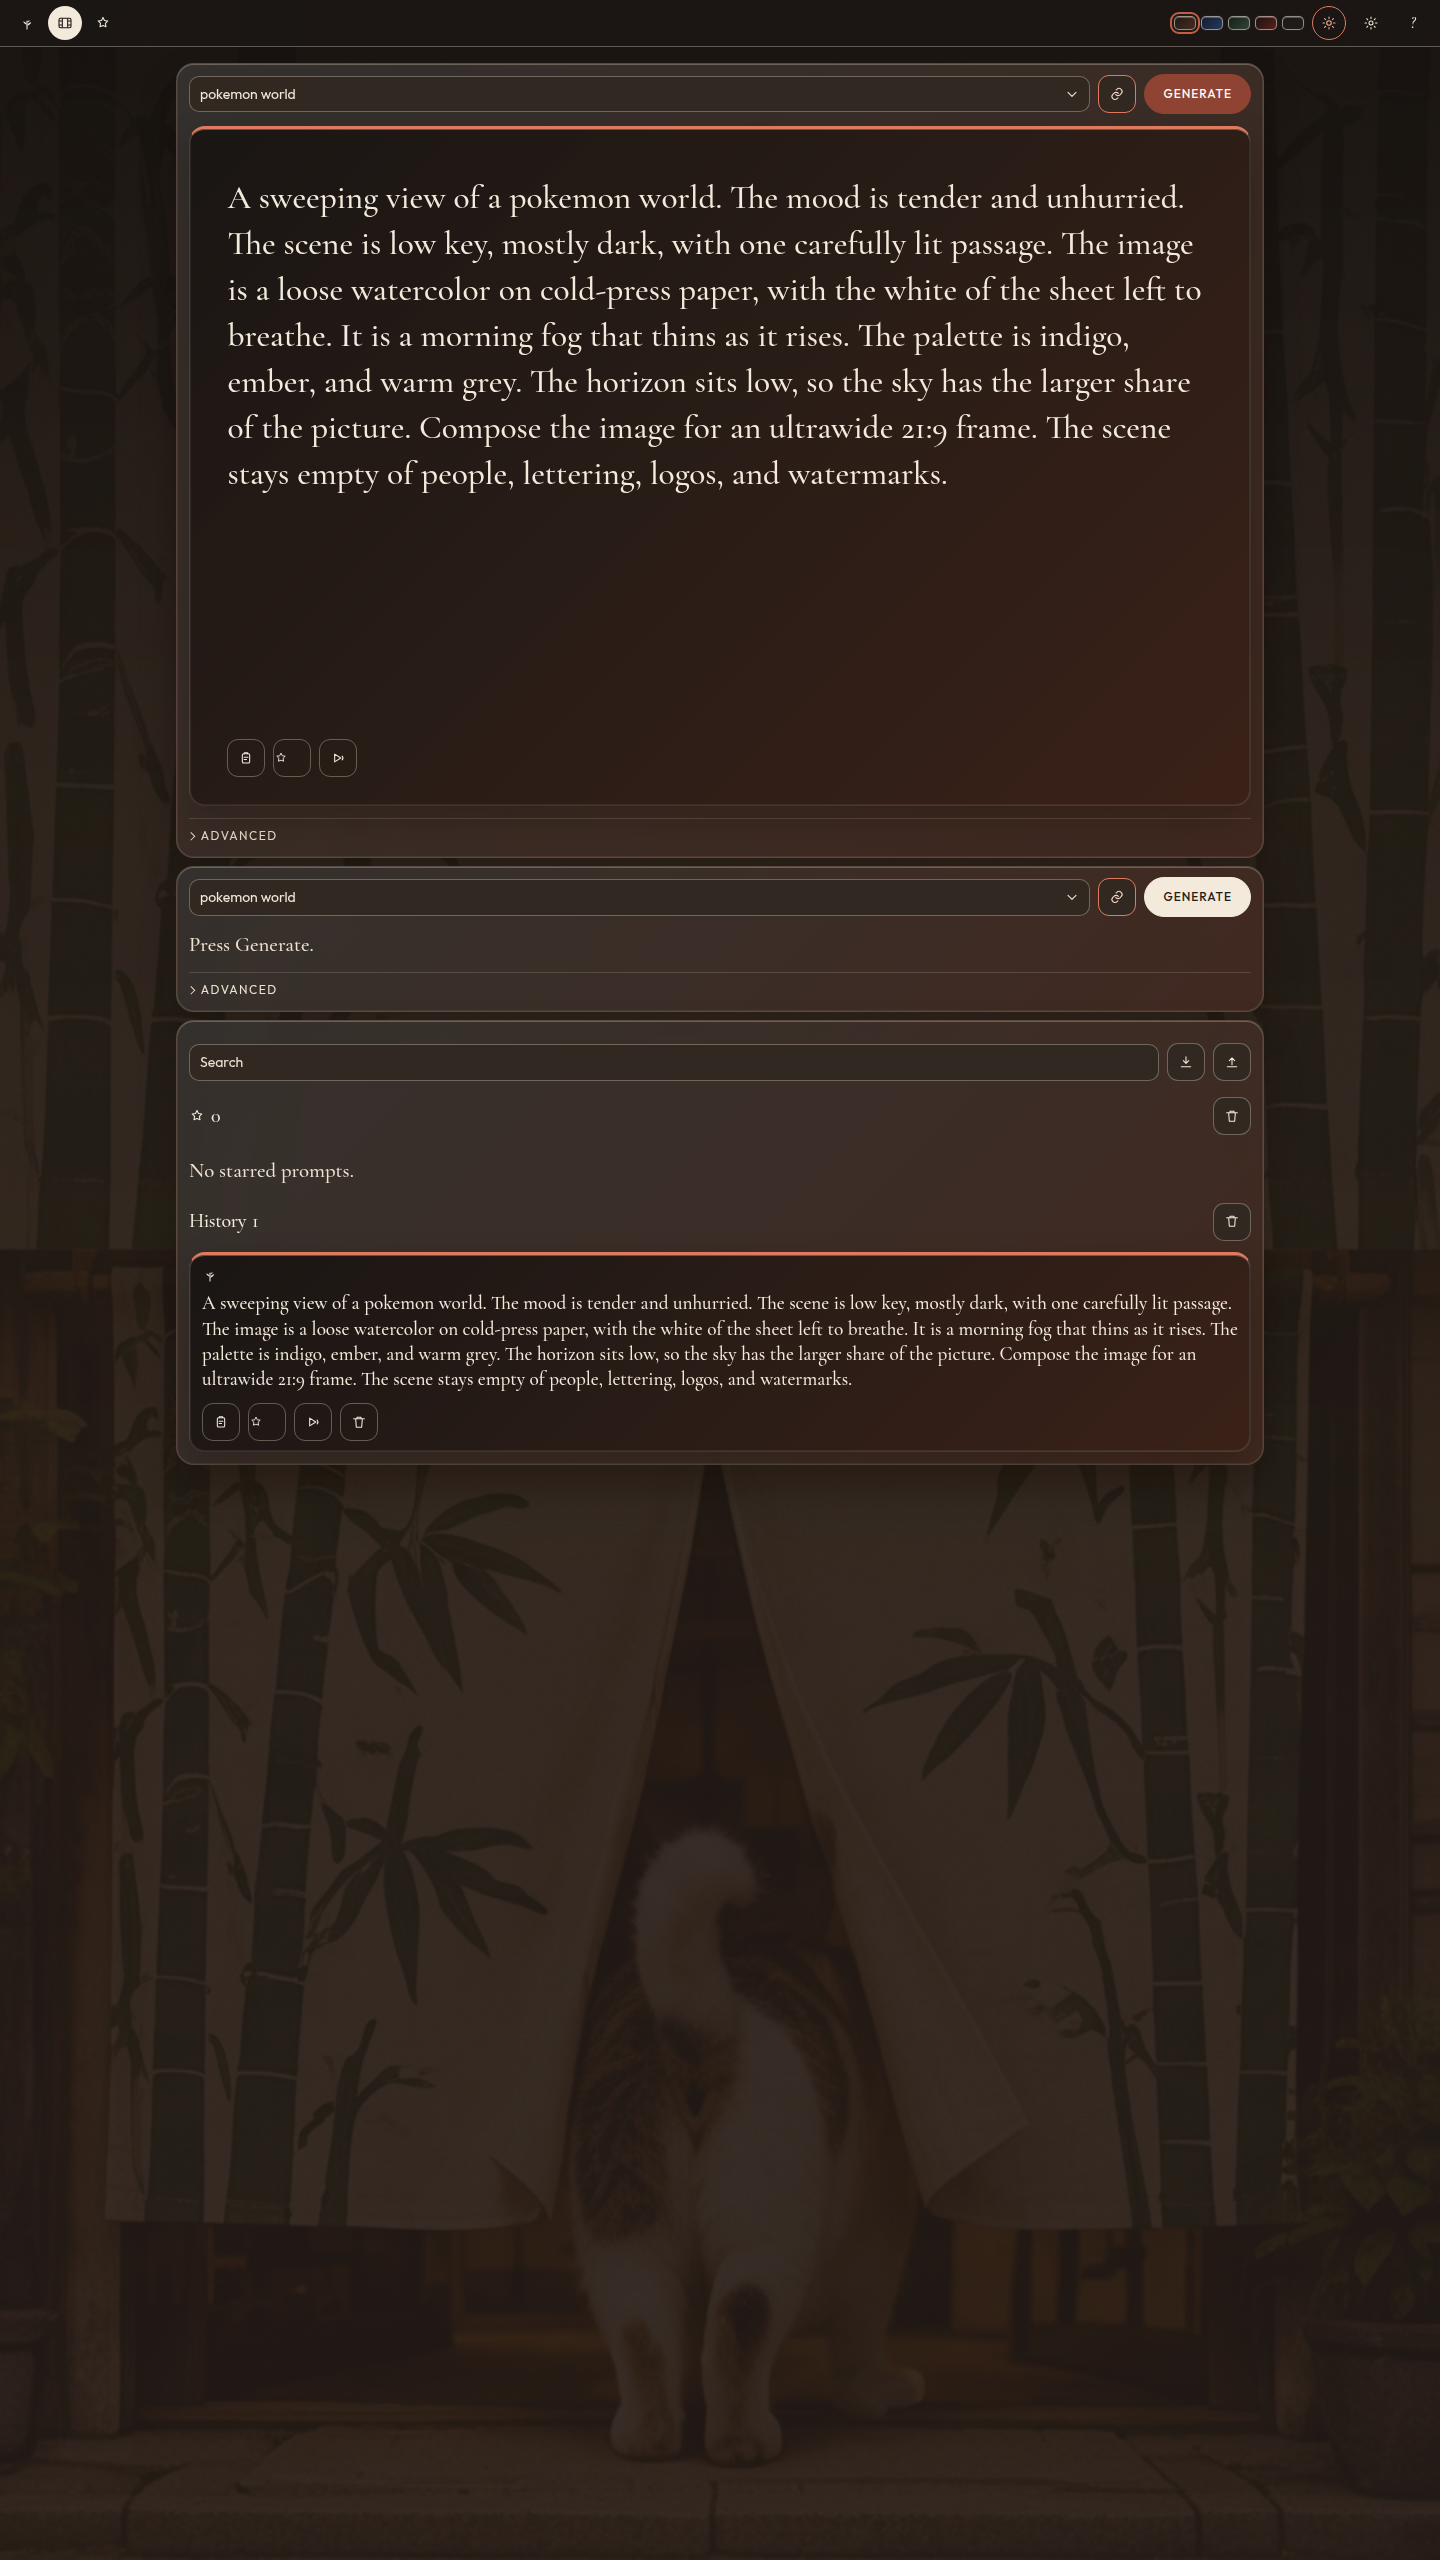
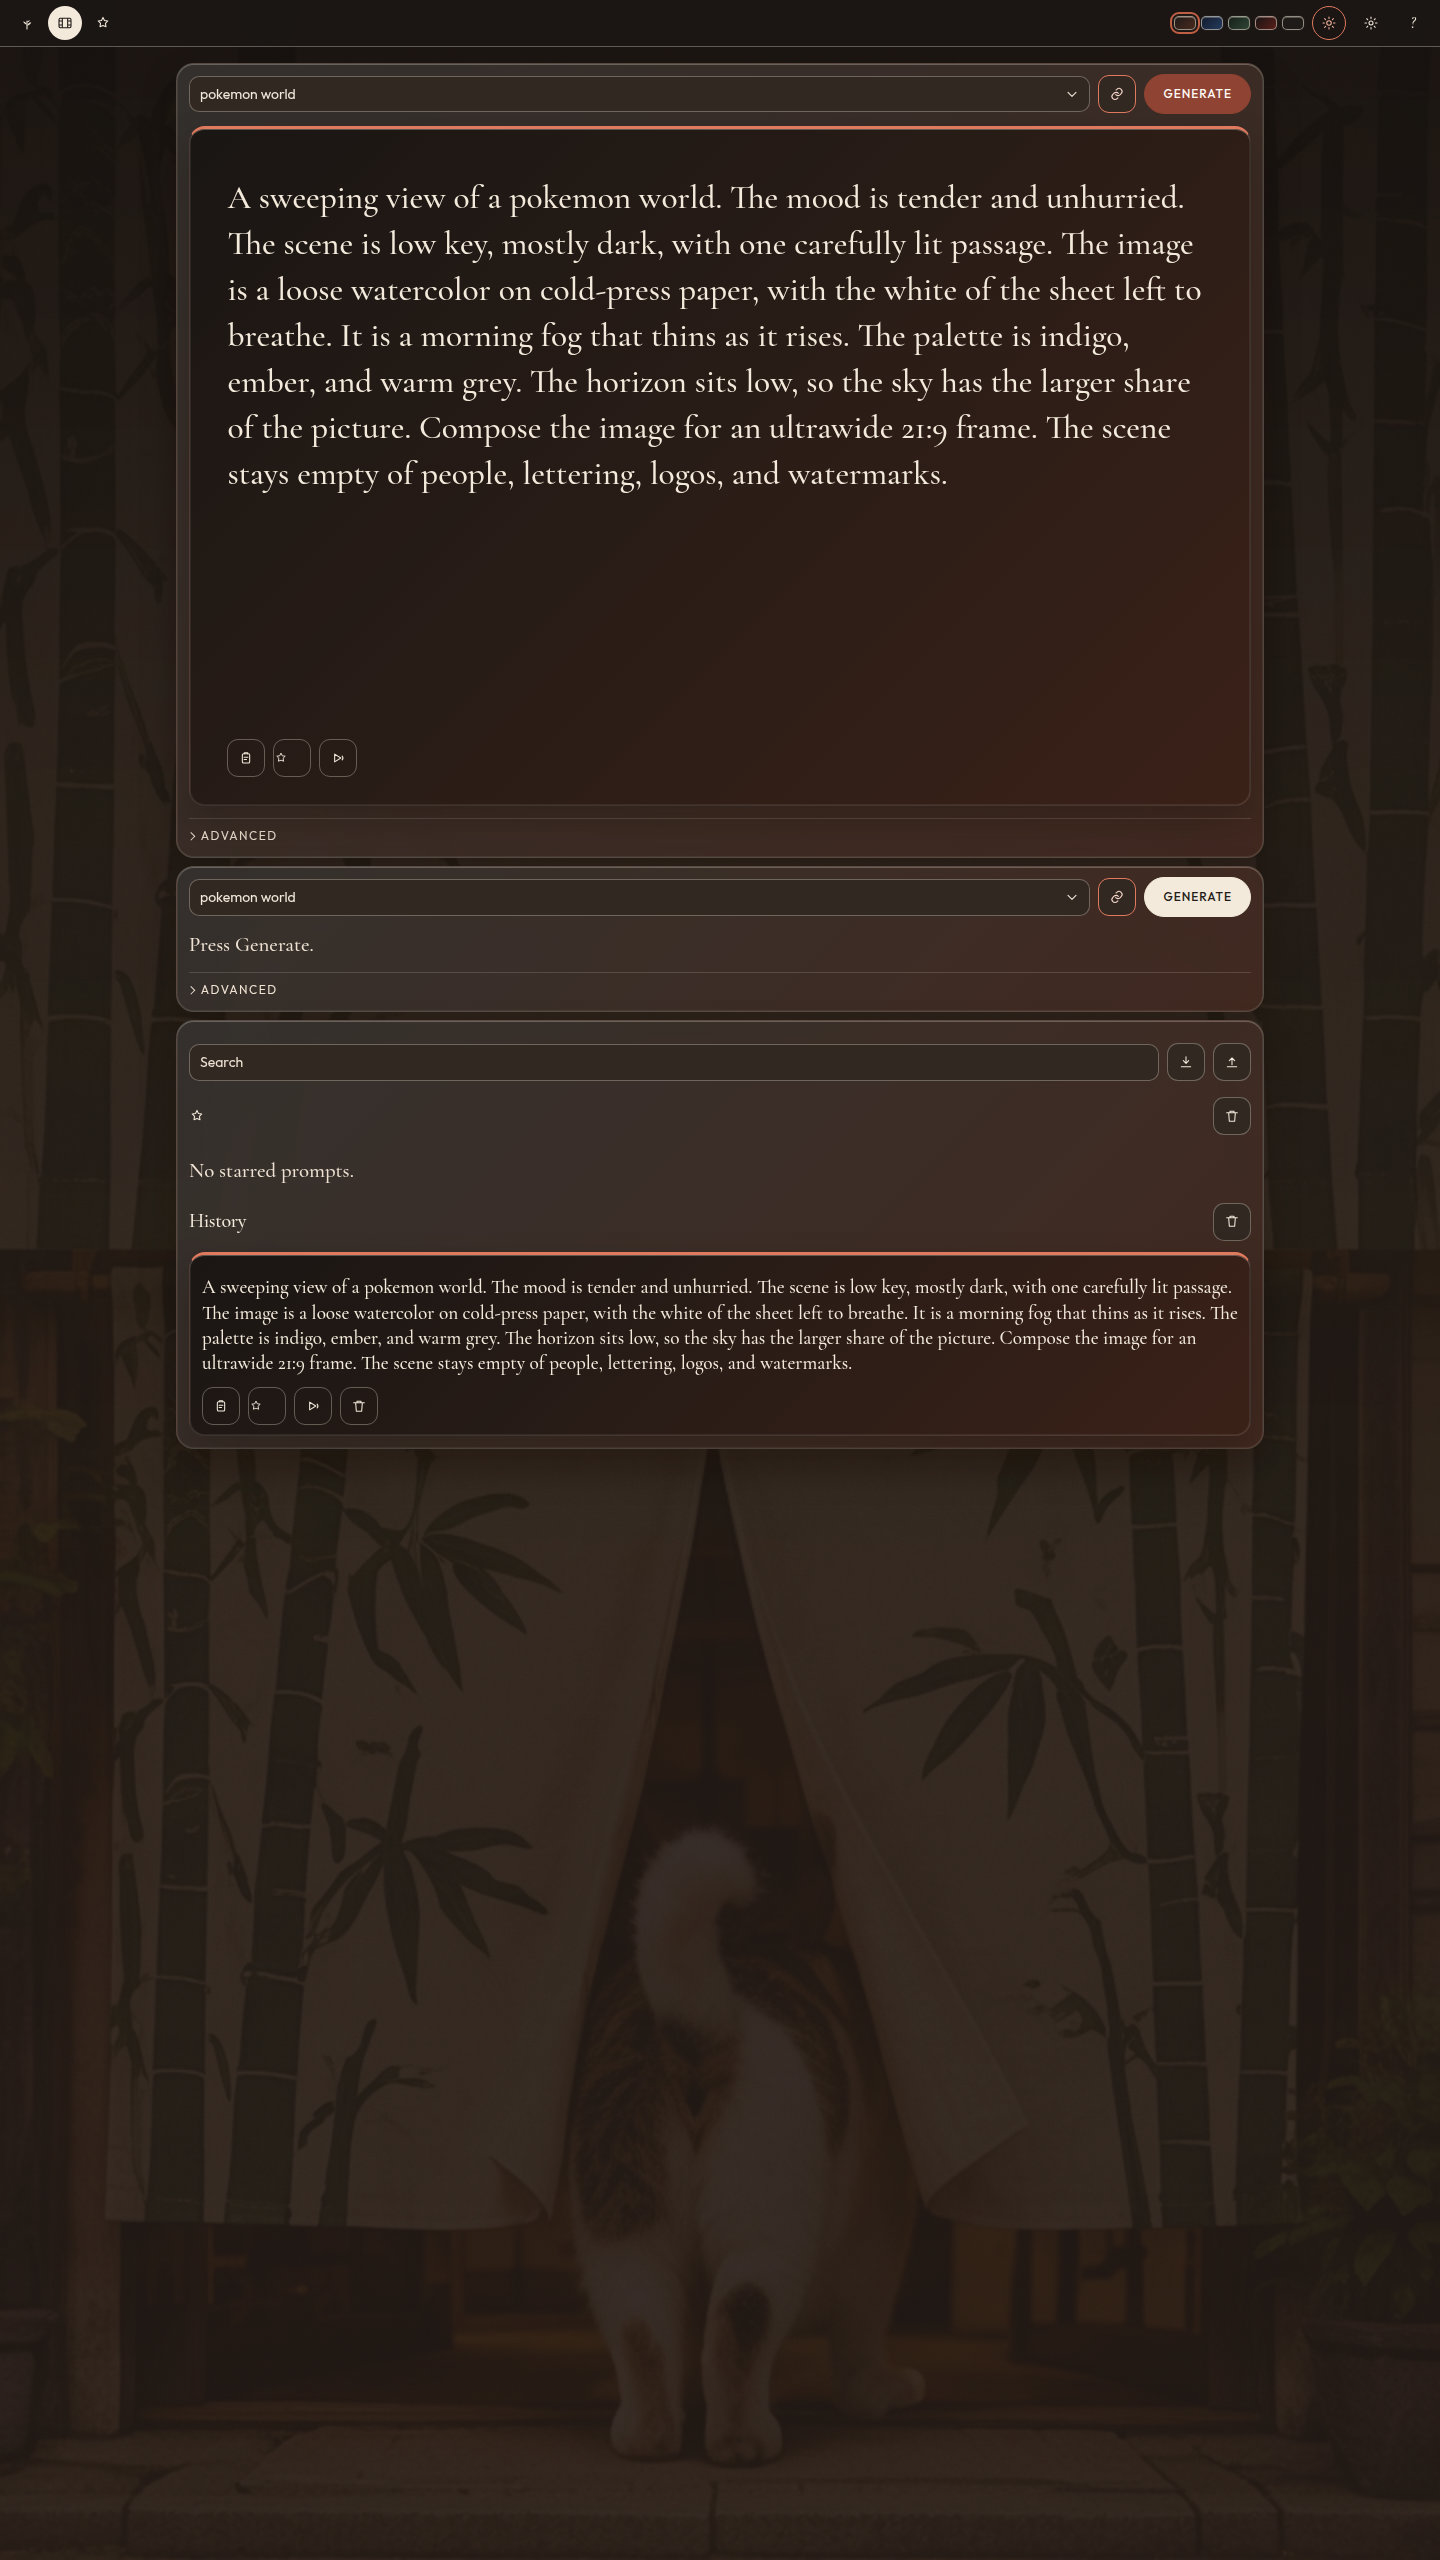
Hide dates and counts on the plates.
History still keeps the time so the shelf stays in order. Hover a plate to see when it was written.

Changed region(s): [[0.125, 0.5, 0.875, 0.5625]]

diff --git a/js/app.js b/js/app.js
@@ -572,21 +572,23 @@
     return '<svg class="icon" viewBox="0 0 24 24" aria-hidden="true"><use href="#' + id + '"></use></svg>';
   }
 
+  function cardMetaTitle(entry) {
+    const kind = entry.kind === "animation" ? "Animation" : "Background";
+    const when = entry.created ? formatWhen(entry.created) : "";
+    return when ? kind + " · " + when : kind;
+  }
+
   function cardHTML(entry, opts) {
     const library = opts.library || "";
     const starred = !!entry.starred;
-    const kindMark = library
-      ? '<span class="kind-mark" title="' + (entry.kind === "animation" ? "Animation" : "Background") + '">' + svgUse(entry.kind === "animation" ? "i-film" : "i-leaf") + "</span>"
-      : "";
     const animate = entry.kind === "background"
       ? '<button type="button" class="icon-btn" data-act="animate" aria-label="Animate this" title="Animate this">' + svgUse("i-play") + "</button>"
       : "";
     const del = library
       ? '<button type="button" class="icon-btn" data-act="delete" data-where="' + esc(library) + '" aria-label="Delete" title="Delete">' + svgUse("i-trash") + "</button>"
       : "";
-    return '<article class="card' + (library ? " compact" : "") + '" tabindex="0" data-id="' + esc(entry.id) + '" data-kind="' + esc(entry.kind) + '">'
+    return '<article class="card' + (library ? " compact" : "") + '" tabindex="0" data-id="' + esc(entry.id) + '" data-kind="' + esc(entry.kind) + '" title="' + esc(cardMetaTitle(entry)) + '">'
       + '<span class="copied-badge">Copied</span>'
-      + (kindMark ? '<header class="card-top">' + kindMark + "</header>" : "")
       + '<p class="prompt">' + esc(entry.text) + "</p>"
       + '<div class="card-actions">'
       + '<button type="button" class="icon-btn" data-act="copy" aria-label="Copy" title="Copy">' + svgUse("i-copy") + "</button>"
@@ -771,8 +773,14 @@
     else renderCards(favList, fav, { library: "fav", empty: "fav" });
     if (query && !hist.length) renderCards(histList, [], { empty: "search" });
     else renderCards(histList, hist, { library: "hist", empty: "hist" });
-    document.getElementById("fav-count").textContent = String(lib.favourites.length);
-    document.getElementById("hist-count").textContent = String(lib.history.length);
+    const favLabel = document.getElementById("fav-label");
+    const histLabel = document.getElementById("hist-label");
+    if (favLabel) {
+      const note = lib.favourites.length + (lib.favourites.length === 1 ? " favourite" : " favourites");
+      favLabel.title = note;
+      favLabel.setAttribute("aria-label", note);
+    }
+    if (histLabel) histLabel.title = lib.history.length + (lib.history.length === 1 ? " earlier prompt" : " earlier prompts");
     if (state.currentCard && !state.currentCard.isConnected) state.currentCard = null;
   }
 
@@ -1084,7 +1092,9 @@
 
   function fillPanel(entry) {
     state.panelId = entry.id;
-    document.getElementById("detail-kicker").textContent = entry.kind === "animation" ? "Motion" : "Still";
+    const meta = cardMetaTitle(entry);
+    document.getElementById("detail-kicker").textContent = meta;
+    document.getElementById("detail").title = meta;
     const animate = entry.kind === "background"
       ? '<button type="button" class="icon-btn" id="detail-animate" aria-label="Animate this" title="Animate this">' + svgUse("i-play") + "</button>"
       : "";

diff --git a/index.html b/index.html
@@ -440,7 +440,7 @@
       </div>
       <div class="library-block">
         <div class="toolbar">
-          <h3><svg class="icon" viewBox="0 0 24 24" aria-hidden="true"><use href="#i-star"></use></svg> <span id="fav-count">0</span></h3>
+          <h3 id="fav-label" aria-label="Favourites" title="Favourites"><svg class="icon" viewBox="0 0 24 24" aria-hidden="true"><use href="#i-star"></use></svg></h3>
           <button type="button" class="icon-btn" id="clear-fav" aria-label="Clear favourites" title="Clear favourites">
             <svg class="icon" viewBox="0 0 24 24" aria-hidden="true"><use href="#i-trash"></use></svg>
           </button>
@@ -451,7 +451,7 @@
       </div>
       <div class="library-block">
         <div class="toolbar">
-          <h3>History <span id="hist-count">0</span></h3>
+          <h3 id="hist-label" title="History">History</h3>
           <button type="button" class="icon-btn" id="clear-hist" aria-label="Clear history" title="Clear history">
             <svg class="icon" viewBox="0 0 24 24" aria-hidden="true"><use href="#i-trash"></use></svg>
           </button>
@@ -465,7 +465,7 @@
 
   <aside class="detail" id="detail" hidden tabindex="-1" aria-labelledby="detail-kicker">
     <div class="detail-bar">
-      <p class="kicker" id="detail-kicker">Plate</p>
+      <p class="kicker visually-hidden" id="detail-kicker">Plate</p>
       <button type="button" class="icon-btn" id="detail-close" aria-label="Close" title="Close">
         <svg class="icon" viewBox="0 0 24 24" aria-hidden="true"><use href="#i-x"></use></svg>
       </button>
